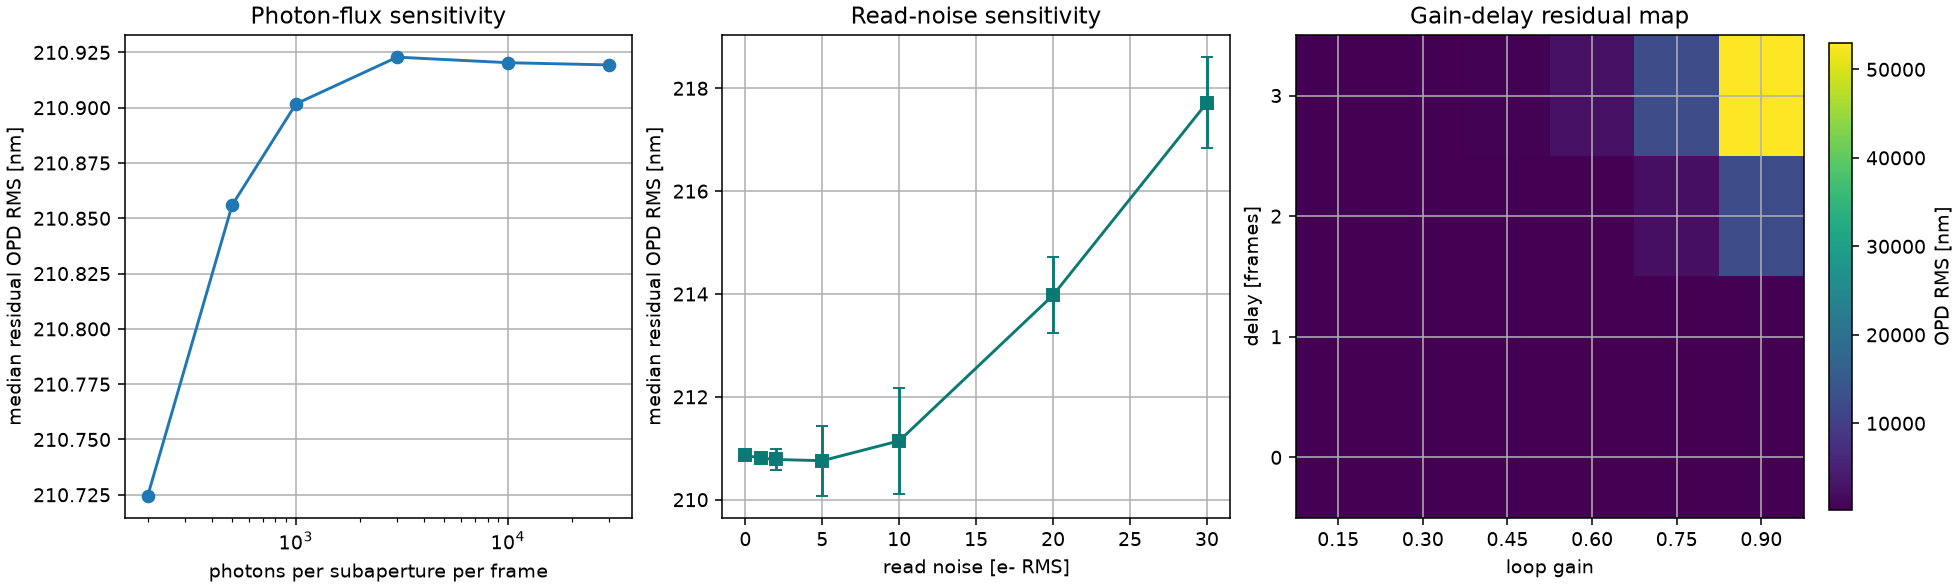
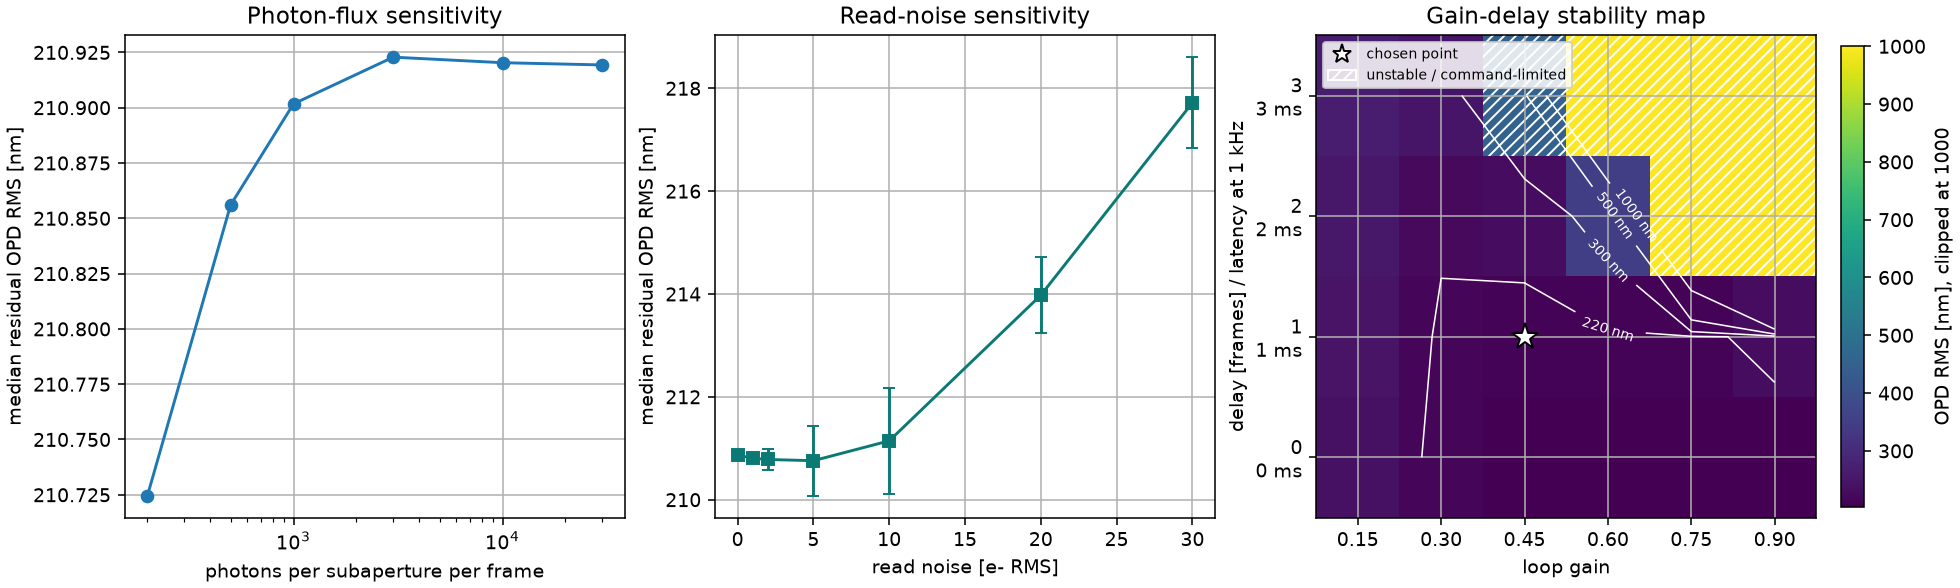
Add gain-delay stability annotations

diff --git a/README.md b/README.md
@@ -60,7 +60,7 @@ The wavefront maps show the open-loop atmospheric phase, the DM correction, and 
 
 ### Noise, latency, and loop-gain trade-offs
 
-Notebook 10 scans photon flux, read noise, loop gain, and frame delay. This is meant to show where a clean AO loop becomes optimistic.
+Notebook 10 scans photon flux, read noise, loop gain, and frame delay. The gain-delay panel marks the chosen operating point and hatches cells where the loop becomes unstable or command-limited.
 
 ![Noise, latency, and gain stability](figures/noise_latency_gain_stability.png)
 
@@ -287,9 +287,9 @@ I keep this caveat explicit because the numbers are useful for comparing clean-m
 
 ### 5. Noise, latency, and loop-gain stability
 
-Notebook `10_noise_latency_gain_stability.ipynb` adds a compact engineering trade-off layer around the closed-loop AO model. It scans photon flux, read noise, a transparent centroid-noise proxy, loop gain, and frame delay, then reports residual OPD RMS and H-band Marechal Strehl.
+Notebook `10_noise_latency_gain_stability.ipynb` adds a compact engineering trade-off layer around the closed-loop AO model. It scans photon flux, read noise, a transparent centroid-noise proxy, loop gain, and frame delay, then reports residual OPD RMS, H-band Marechal Strehl, command growth, and a simple stability flag.
 
-This is not a full AO error budget. Its purpose is to make the controller trade-offs visible: noise floors limit the value of high gain, latency narrows the stable gain range, and clean-model Strehl can be optimistic when detector and timing effects are ignored.
+This is not a full AO error budget. Its purpose is to make the controller trade-offs visible: noise floors limit the value of high gain, latency narrows the stable gain range, and clean-model Strehl can be optimistic when detector and timing effects are ignored. The delay axis is also labelled as physical latency for a nominal 1 kHz loop.
 
 ### 6. PWFS extension
 
